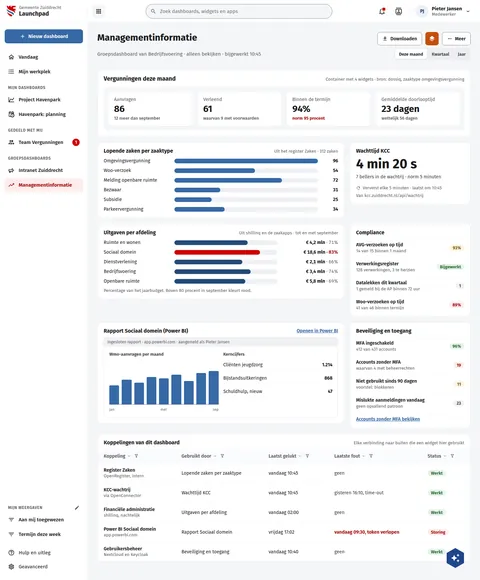
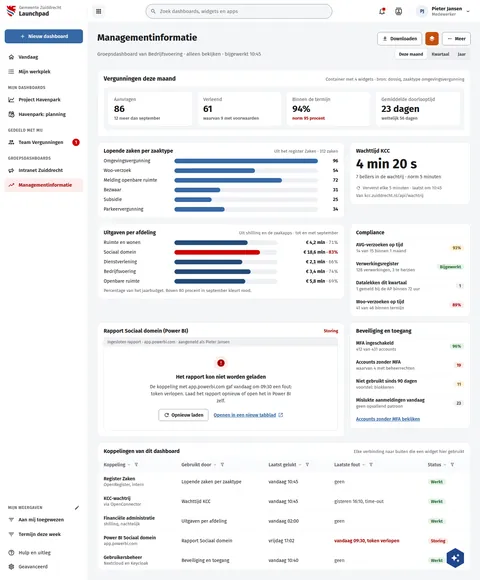
fix(screens): co-sign by signed link, real weekdays, and the Power BI card's failed state
MedeOndertekenen: the invitation mail carries a personal signed link and the
start page no longer asks for a typed code (decision 271, portaliq #1856).
FormulierNietBeschikbaar: 9 October 2026 is a Friday and 5 January 2027 a
Tuesday; the maintenance window writes its times with a colon.
LpManagement: the Power BI card drops its permanent "Openen in Power BI"
link and shows "Openen in een nieuw tabblad" only when the report fails to
load, which the connections table on the same board already says it does.

The three catalogues follow the boards; the dot-written times that #785
left behind in them now use a colon.

diff --git a/preview/screens/boards/LpManagement.html b/preview/screens/boards/LpManagement.html
@@ -300,21 +300,14 @@ a{color:var(--sc-primary, #3669a5)}a:hover{color:var(--sc-primary-deep, #234a78)
           </section>
 
           <section aria-labelledby="w-bi" style="grid-column: span 2; background: #ffffff; border: 1px solid var(--sc-work-line, #e4e6ea); border-radius: 12px; padding: 16px 18px 18px; display: flex; flex-direction: column; gap: 10px">
-            <div style="display: flex; align-items: center; justify-content: space-between; gap: 12px"><h2 id="w-bi" style="margin: 0; font-size: 16px; font-weight: 700">Rapport Sociaal domein (Power BI)</h2><a href="#" style="font-size: 14px; font-weight: 600">Openen in Power BI</a></div>
+            <div style="display: flex; align-items: center; justify-content: space-between; gap: 12px"><h2 id="w-bi" style="margin: 0; font-size: 16px; font-weight: 700">Rapport Sociaal domein (Power BI)</h2><span style="font-size: 13px; font-weight: 600; color: var(--sc-accent-deep, #a30000)">Storing</span></div>
             <div style="border: 1px solid var(--sc-work-line, #e4e6ea); border-radius: 8px; overflow: hidden">
               <div style="display: flex; align-items: center; gap: 8px; padding: 6px 10px; background: var(--sc-work-chip, #f0f1f3); font-size: 12px; color: var(--sc-work-muted, #5e6168)">Ingesloten rapport · app.powerbi.com · aangemeld als Pieter Jansen</div>
-              <div style="display: grid; grid-template-columns: 1fr 1fr; gap: 14px; padding: 16px; min-height: 180px">
-                <div style="display: flex; flex-direction: column; gap: 8px"><span style="font-size: 13px; font-weight: 600; color: var(--sc-work-text, #3d4047)">Wmo-aanvragen per maand</span>
-                  <div style="flex: 1; display: flex; align-items: flex-end; gap: 8px; height: 130px; border-bottom: 1px solid var(--sc-work-field, #828a95)">
-                    <span title="42 aanvragen" style="flex: 1; border-radius: 3px 3px 0 0; background: var(--sc-primary, #3669a5); height: 42%"></span><span title="55 aanvragen" style="flex: 1; border-radius: 3px 3px 0 0; background: var(--sc-primary, #3669a5); height: 55%"></span><span title="48 aanvragen" style="flex: 1; border-radius: 3px 3px 0 0; background: var(--sc-primary, #3669a5); height: 48%"></span><span title="61 aanvragen" style="flex: 1; border-radius: 3px 3px 0 0; background: var(--sc-primary, #3669a5); height: 61%"></span><span title="58 aanvragen" style="flex: 1; border-radius: 3px 3px 0 0; background: var(--sc-primary, #3669a5); height: 58%"></span><span title="66 aanvragen" style="flex: 1; border-radius: 3px 3px 0 0; background: var(--sc-primary, #3669a5); height: 66%"></span><span title="52 aanvragen" style="flex: 1; border-radius: 3px 3px 0 0; background: var(--sc-primary, #3669a5); height: 52%"></span><span title="70 aanvragen" style="flex: 1; border-radius: 3px 3px 0 0; background: var(--sc-primary, #3669a5); height: 70%"></span><span title="74 aanvragen" style="flex: 1; border-radius: 3px 3px 0 0; background: var(--sc-primary, #3669a5); height: 74%"></span>
-                  </div>
-                  <span style="display: flex; justify-content: space-between; font-size: 11px; color: var(--sc-work-muted, #5e6168)"><span>jan</span><span>mei</span><span>sep</span></span>
-                </div>
-                <div style="display: flex; flex-direction: column; gap: 10px"><span style="font-size: 13px; font-weight: 600; color: var(--sc-work-text, #3d4047)">Kerncijfers</span>
-                  <span style="display: flex; justify-content: space-between; font-size: 14px; padding: 6px 0; border-bottom: 1px solid var(--sc-work-soft, #eef0f3)"><span>Cliënten jeugdzorg</span><strong>1.214</strong></span>
-                  <span style="display: flex; justify-content: space-between; font-size: 14px; padding: 6px 0; border-bottom: 1px solid var(--sc-work-soft, #eef0f3)"><span>Bijstandsuitkeringen</span><strong>868</strong></span>
-                  <span style="display: flex; justify-content: space-between; font-size: 14px; padding: 6px 0; border-bottom: 1px solid var(--sc-work-soft, #eef0f3)"><span>Schuldhulp, nieuw</span><strong>47</strong></span>
-                </div>
+              <div role="status" style="display: flex; flex-direction: column; align-items: center; justify-content: center; gap: 10px; padding: 28px 16px; min-height: 180px; text-align: center">
+                <span style="width: 44px; height: 44px; border-radius: 22px; background: #fcedec; color: var(--sc-accent-deep, #a30000); display: flex; align-items: center; justify-content: center"><svg width="26" height="26" viewbox="0 0 24 24" fill="currentColor" aria-hidden="true" style="flex: none"><path d="M13,13H11V7H13M13,17H11V15H13M12,2A10,10 0 0,0 2,12A10,10 0 0,0 12,22A10,10 0 0,0 22,12A10,10 0 0,0 12,2Z"></path></svg></span>
+                <span style="font-size: 16px; font-weight: 700">Het rapport kon niet worden geladen</span>
+                <span style="font-size: 14px; color: var(--sc-work-text, #3d4047); max-width: 440px; line-height: 1.5">De koppeling met app.powerbi.com gaf vandaag om 09:30 een fout: token verlopen. Laad het rapport opnieuw of open het in Power BI zelf.</span>
+                <span style="display: flex; flex-wrap: wrap; justify-content: center; gap: 8px 16px; margin-top: 4px"><button type="button" style="display: inline-flex; align-items: center; gap: 6px; height: 36px; padding: 0 14px; border: 1px solid var(--sc-work-field, #828a95); border-radius: 6px; background: #ffffff; color: var(--sc-site-ink, #1a1a1a); font: 600 14px var(--sc-font, 'Fira Sans'), sans-serif"><svg width="18" height="18" viewbox="0 0 24 24" fill="currentColor" aria-hidden="true" style="flex: none"><path d="M17.65,6.35C16.2,4.9 14.21,4 12,4A8,8 0 0,0 4,12A8,8 0 0,0 12,20C15.73,20 18.84,17.45 19.73,14H17.65C16.83,16.33 14.61,18 12,18A6,6 0 0,1 6,12A6,6 0 0,1 12,6C13.66,6 15.14,6.69 16.22,7.78L13,11H20V4L17.65,6.35Z"></path></svg>Opnieuw laden</button><a href="#" target="_blank" rel="noopener" style="display: inline-flex; align-items: center; gap: 6px; font-size: 14px; font-weight: 600">Openen in een nieuw tabblad<svg width="16" height="16" viewbox="0 0 24 24" fill="currentColor" aria-hidden="true" style="flex: none"><path d="M14,3V5H17.59L7.76,14.83L9.17,16.24L19,6.41V10H21V3M19,19H5V5H12V3H5C3.89,3 3,3.9 3,5V19A2,2 0 0,0 5,21H19A2,2 0 0,0 21,19V12H19V19Z"></path></svg></a></span>
               </div>
             </div>
           </section>

diff --git a/screens-src/zuiddrecht/LpManagement.dc.html b/screens-src/zuiddrecht/LpManagement.dc.html
@@ -95,21 +95,14 @@ a{color:#3669a5}a:hover{color:#234a78}
           </section>
 
           <section aria-labelledby="w-bi" style="grid-column: span 2; background: #ffffff; border: 1px solid #e4e6ea; border-radius: 12px; padding: 16px 18px 18px; display: flex; flex-direction: column; gap: 10px">
-            <div style="display: flex; align-items: center; justify-content: space-between; gap: 12px"><h2 id="w-bi" style="margin: 0; font-size: 16px; font-weight: 700">Rapport Sociaal domein (Power BI)</h2><a href="#" style="font-size: 14px; font-weight: 600">Openen in Power BI</a></div>
+            <div style="display: flex; align-items: center; justify-content: space-between; gap: 12px"><h2 id="w-bi" style="margin: 0; font-size: 16px; font-weight: 700">Rapport Sociaal domein (Power BI)</h2><span style="font-size: 13px; font-weight: 600; color: #a30000">Storing</span></div>
             <div style="border: 1px solid #e4e6ea; border-radius: 8px; overflow: hidden">
               <div style="display: flex; align-items: center; gap: 8px; padding: 6px 10px; background: #f0f1f3; font-size: 12px; color: #5e6168">Ingesloten rapport · app.powerbi.com · aangemeld als Pieter Jansen</div>
-              <div style="display: grid; grid-template-columns: 1fr 1fr; gap: 14px; padding: 16px; min-height: 180px">
-                <div style="display: flex; flex-direction: column; gap: 8px"><span style="font-size: 13px; font-weight: 600; color: #3d4047">Wmo-aanvragen per maand</span>
-                  <div style="flex: 1; display: flex; align-items: flex-end; gap: 8px; height: 130px; border-bottom: 1px solid #828a95">
-                    <sc-for list="{{ cols }}" as="c" hint-placeholder-count="9"><span title="{{ c.t }}" style="{{ c.style }}"></span></sc-for>
-                  </div>
-                  <span style="display: flex; justify-content: space-between; font-size: 11px; color: #5e6168"><span>jan</span><span>mei</span><span>sep</span></span>
-                </div>
-                <div style="display: flex; flex-direction: column; gap: 10px"><span style="font-size: 13px; font-weight: 600; color: #3d4047">Kerncijfers</span>
-                  <span style="display: flex; justify-content: space-between; font-size: 14px; padding: 6px 0; border-bottom: 1px solid #eef0f3"><span>Cliënten jeugdzorg</span><strong>1.214</strong></span>
-                  <span style="display: flex; justify-content: space-between; font-size: 14px; padding: 6px 0; border-bottom: 1px solid #eef0f3"><span>Bijstandsuitkeringen</span><strong>868</strong></span>
-                  <span style="display: flex; justify-content: space-between; font-size: 14px; padding: 6px 0; border-bottom: 1px solid #eef0f3"><span>Schuldhulp, nieuw</span><strong>47</strong></span>
-                </div>
+              <div role="status" style="display: flex; flex-direction: column; align-items: center; justify-content: center; gap: 10px; padding: 28px 16px; min-height: 180px; text-align: center">
+                <span style="width: 44px; height: 44px; border-radius: 22px; background: #fcedec; color: #a30000; display: flex; align-items: center; justify-content: center"><svg width="26" height="26" viewBox="0 0 24 24" fill="currentColor" aria-hidden="true" style="flex: none"><path d="M13,13H11V7H13M13,17H11V15H13M12,2A10,10 0 0,0 2,12A10,10 0 0,0 12,22A10,10 0 0,0 22,12A10,10 0 0,0 12,2Z"></path></svg></span>
+                <span style="font-size: 16px; font-weight: 700">Het rapport kon niet worden geladen</span>
+                <span style="font-size: 14px; color: #3d4047; max-width: 440px; line-height: 1.5">De koppeling met app.powerbi.com gaf vandaag om 09:30 een fout: token verlopen. Laad het rapport opnieuw of open het in Power BI zelf.</span>
+                <span style="display: flex; flex-wrap: wrap; justify-content: center; gap: 8px 16px; margin-top: 4px"><button type="button" style="display: inline-flex; align-items: center; gap: 6px; height: 36px; padding: 0 14px; border: 1px solid #828a95; border-radius: 6px; background: #ffffff; color: #1a1a1a; font: 600 14px 'Fira Sans', sans-serif"><svg width="18" height="18" viewBox="0 0 24 24" fill="currentColor" aria-hidden="true" style="flex: none"><path d="M17.65,6.35C16.2,4.9 14.21,4 12,4A8,8 0 0,0 4,12A8,8 0 0,0 12,20C15.73,20 18.84,17.45 19.73,14H17.65C16.83,16.33 14.61,18 12,18A6,6 0 0,1 6,12A6,6 0 0,1 12,6C13.66,6 15.14,6.69 16.22,7.78L13,11H20V4L17.65,6.35Z"></path></svg>Opnieuw laden</button><a href="#" target="_blank" rel="noopener" style="display: inline-flex; align-items: center; gap: 6px; font-size: 14px; font-weight: 600">Openen in een nieuw tabblad<svg width="16" height="16" viewBox="0 0 24 24" fill="currentColor" aria-hidden="true" style="flex: none"><path d="M14,3V5H17.59L7.76,14.83L9.17,16.24L19,6.41V10H21V3M19,19H5V5H12V3H5C3.89,3 3,3.9 3,5V19A2,2 0 0,0 5,21H19A2,2 0 0,0 21,19V12H19V19Z"></path></svg></a></span>
               </div>
             </div>
           </section>

diff --git a/preview/screens/boards/FormulierNietBeschikbaar.html b/preview/screens/boards/FormulierNietBeschikbaar.html
@@ -97,7 +97,7 @@ footer a{color:#ffffff}footer a:hover{color:#dfe8f3}
         <span style="flex: none; width: 48px; height: 48px; border-radius: 24px; background: #fff4de; color: #7a4f00; display: flex; align-items: center; justify-content: center"><svg width="28" height="28" viewbox="0 0 24 24" fill="currentColor" aria-hidden="true" style="flex: none"><path d="M22.61,19L13.53,9.91C14.46,7.57 14,4.81 12.09,2.91C9.79,0.61 6.21,0.4 3.66,2.26L7.5,6.11L6.08,7.5L2.25,3.69C0.39,6.23 0.6,9.82 2.9,12.11C4.76,13.97 7.47,14.46 9.79,13.59L18.9,22.7C19.29,23.09 19.92,23.09 20.31,22.7L22.61,20.4C23,20 23,19.39 22.61,19M19.61,20.59L10.15,11.13C9.54,11.58 8.86,11.85 8.15,11.95C6.79,12.15 5.36,11.74 4.32,10.7C3.37,9.76 2.93,8.5 3,7.26L6.09,10.35L10.33,6.11L7.24,3C8.5,2.95 9.73,3.39 10.68,4.33C11.76,5.41 12.17,6.9 11.92,8.29C11.8,9 11.5,9.66 11.04,10.25L20.5,19.7L19.61,20.59Z"></path></svg></span>
         <div style="display: flex; flex-direction: column; gap: 8px">
           <h2 id="s1" style="margin: 0; font-size: 32px; font-weight: 700; line-height: 1.2">Dit formulier is even niet beschikbaar</h2>
-          <p style="margin: 0; font-size: 19px; line-height: 1.5; color: var(--sc-site-muted, #4a4a4a)">Wij werken aan het formulier Woo-verzoek indienen. Dat doen wij op donderdag 9 oktober 2026 van 18:00 tot 22:00 uur.</p>
+          <p style="margin: 0; font-size: 19px; line-height: 1.5; color: var(--sc-site-muted, #4a4a4a)">Wij werken aan het formulier Woo-verzoek indienen. Dat doen wij op vrijdag 9 oktober 2026 van 18:00 tot 22:00 uur.</p>
         </div>
       </div>
       <div style="display: flex; gap: 12px; padding: 16px 20px; border-radius: 4px; background: var(--sc-site-ground, #f4f6f9); border: 1px solid var(--sc-site-border, #d3d8df); align-items: flex-start"><svg width="22" height="22" viewbox="0 0 24 24" fill="#4a4a4a" aria-hidden="true" style="flex: none; margin-top: 1px;fill:var(--sc-site-muted, #4a4a4a)"><path d="M11,9H13V7H11M12,20C7.59,20 4,16.41 4,12C4,7.59 7.59,4 12,4C16.41,4 20,7.59 20,12C20,16.41 16.41,20 12,20M12,2A10,10 0 0,0 2,12A10,10 0 0,0 12,22A10,10 0 0,0 22,12A10,10 0 0,0 12,2M11,17H13V11H11V17Z"></path></svg><div style="font-size: 17px; line-height: 1.5; display: flex; flex-direction: column; gap: 4px"><span>Was u al bezig? Uw opgeslagen antwoorden blijven bewaard. Na 22:00 uur gaat u verder waar u was.</span></div></div>
@@ -120,7 +120,7 @@ footer a{color:#ffffff}footer a:hover{color:#dfe8f3}
         <span style="flex: none; width: 48px; height: 48px; border-radius: 24px; background: var(--sc-primary-light, #eaf0f7); color: var(--sc-primary-deep, #234a78); display: flex; align-items: center; justify-content: center"><svg width="28" height="28" viewbox="0 0 24 24" fill="currentColor" aria-hidden="true" style="flex: none"><path d="M15,13H16.5V15.82L18.94,17.23L18.19,18.53L15,16.69V13M19,8H5V19H9.67C9.24,18.09 9,17.07 9,16A7,7 0 0,1 16,9C17.07,9 18.09,9.24 19,9.67V8M5,21C3.89,21 3,20.1 3,19V5C3,3.89 3.89,3 5,3H6V1H8V3H16V1H18V3H19A2,2 0 0,1 21,5V11.1C22.24,12.36 23,14.09 23,16A7,7 0 0,1 16,23C14.09,23 12.36,22.24 11.1,21H5M16,11.15A4.85,4.85 0 0,0 11.15,16C11.15,18.68 13.32,20.85 16,20.85A4.85,4.85 0 0,0 20.85,16C20.85,13.32 18.68,11.15 16,11.15Z"></path></svg></span>
         <div style="display: flex; flex-direction: column; gap: 8px">
           <h2 id="s3" style="margin: 0; font-size: 32px; font-weight: 700; line-height: 1.2">Er kunnen nu geen aanvragen meer bij</h2>
-          <p style="margin: 0; font-size: 19px; line-height: 1.5; color: var(--sc-site-muted, #4a4a4a)">Voor de subsidie geveltuinen 2026 zijn alle 150 plekken vergeven. Vanaf maandag 5 januari 2027 kunt u weer een aanvraag doen.</p>
+          <p style="margin: 0; font-size: 19px; line-height: 1.5; color: var(--sc-site-muted, #4a4a4a)">Voor de subsidie geveltuinen 2026 zijn alle 150 plekken vergeven. Vanaf dinsdag 5 januari 2027 kunt u weer een aanvraag doen.</p>
         </div>
       </div>
       <div style="display: flex; gap: 12px; padding: 16px 20px; border-radius: 4px; background: var(--sc-site-ground, #f4f6f9); border: 1px solid var(--sc-site-border, #d3d8df); align-items: flex-start"><svg width="22" height="22" viewbox="0 0 24 24" fill="#4a4a4a" aria-hidden="true" style="flex: none; margin-top: 1px;fill:var(--sc-site-muted, #4a4a4a)"><path d="M11,9H13V7H11M12,20C7.59,20 4,16.41 4,12C4,7.59 7.59,4 12,4C16.41,4 20,7.59 20,12C20,16.41 16.41,20 12,20M12,2A10,10 0 0,0 2,12A10,10 0 0,0 12,22A10,10 0 0,0 22,12A10,10 0 0,0 12,2M11,17H13V11H11V17Z"></path></svg><div style="font-size: 17px; line-height: 1.5; display: flex; flex-direction: column; gap: 4px"><span>Dit kan alleen bij formulieren met een vast aantal plekken, zoals een subsidie of een aanmelding. Een Woo-verzoek kunt u altijd indienen.</span></div></div>

diff --git a/screens-src/zuiddrecht/FormulierNietBeschikbaar.dc.html b/screens-src/zuiddrecht/FormulierNietBeschikbaar.dc.html
@@ -27,7 +27,7 @@ a{color:#3669a5}a:hover{color:#234a78}
         <span style="flex: none; width: 48px; height: 48px; border-radius: 24px; background: #fff4de; color: #7a4f00; display: flex; align-items: center; justify-content: center"><svg width="28" height="28" viewBox="0 0 24 24" fill="currentColor" aria-hidden="true" style="flex: none"><path d="M22.61,19L13.53,9.91C14.46,7.57 14,4.81 12.09,2.91C9.79,0.61 6.21,0.4 3.66,2.26L7.5,6.11L6.08,7.5L2.25,3.69C0.39,6.23 0.6,9.82 2.9,12.11C4.76,13.97 7.47,14.46 9.79,13.59L18.9,22.7C19.29,23.09 19.92,23.09 20.31,22.7L22.61,20.4C23,20 23,19.39 22.61,19M19.61,20.59L10.15,11.13C9.54,11.58 8.86,11.85 8.15,11.95C6.79,12.15 5.36,11.74 4.32,10.7C3.37,9.76 2.93,8.5 3,7.26L6.09,10.35L10.33,6.11L7.24,3C8.5,2.95 9.73,3.39 10.68,4.33C11.76,5.41 12.17,6.9 11.92,8.29C11.8,9 11.5,9.66 11.04,10.25L20.5,19.7L19.61,20.59Z"></path></svg></span>
         <div style="display: flex; flex-direction: column; gap: 8px">
           <h2 id="s1" style="margin: 0; font-size: 32px; font-weight: 700; line-height: 1.2">Dit formulier is even niet beschikbaar</h2>
-          <p style="margin: 0; font-size: 19px; line-height: 1.5; color: #4a4a4a">Wij werken aan het formulier Woo-verzoek indienen. Dat doen wij op donderdag 9 oktober 2026 van 18:00 tot 22:00 uur.</p>
+          <p style="margin: 0; font-size: 19px; line-height: 1.5; color: #4a4a4a">Wij werken aan het formulier Woo-verzoek indienen. Dat doen wij op vrijdag 9 oktober 2026 van 18:00 tot 22:00 uur.</p>
         </div>
       </div>
       <div style="display: flex; gap: 12px; padding: 16px 20px; border-radius: 4px; background: #f4f6f9; border: 1px solid #d3d8df; align-items: flex-start"><svg width="22" height="22" viewBox="0 0 24 24" fill="#4a4a4a" aria-hidden="true" style="flex: none; margin-top: 1px"><path d="M11,9H13V7H11M12,20C7.59,20 4,16.41 4,12C4,7.59 7.59,4 12,4C16.41,4 20,7.59 20,12C20,16.41 16.41,20 12,20M12,2A10,10 0 0,0 2,12A10,10 0 0,0 12,22A10,10 0 0,0 22,12A10,10 0 0,0 12,2M11,17H13V11H11V17Z"></path></svg><div style="font-size: 17px; line-height: 1.5; display: flex; flex-direction: column; gap: 4px"><span>Was u al bezig? Uw opgeslagen antwoorden blijven bewaard. Na 22:00 uur gaat u verder waar u was.</span></div></div>
@@ -50,7 +50,7 @@ a{color:#3669a5}a:hover{color:#234a78}
         <span style="flex: none; width: 48px; height: 48px; border-radius: 24px; background: #eaf0f7; color: #234a78; display: flex; align-items: center; justify-content: center"><svg width="28" height="28" viewBox="0 0 24 24" fill="currentColor" aria-hidden="true" style="flex: none"><path d="M15,13H16.5V15.82L18.94,17.23L18.19,18.53L15,16.69V13M19,8H5V19H9.67C9.24,18.09 9,17.07 9,16A7,7 0 0,1 16,9C17.07,9 18.09,9.24 19,9.67V8M5,21C3.89,21 3,20.1 3,19V5C3,3.89 3.89,3 5,3H6V1H8V3H16V1H18V3H19A2,2 0 0,1 21,5V11.1C22.24,12.36 23,14.09 23,16A7,7 0 0,1 16,23C14.09,23 12.36,22.24 11.1,21H5M16,11.15A4.85,4.85 0 0,0 11.15,16C11.15,18.68 13.32,20.85 16,20.85A4.85,4.85 0 0,0 20.85,16C20.85,13.32 18.68,11.15 16,11.15Z"></path></svg></span>
         <div style="display: flex; flex-direction: column; gap: 8px">
           <h2 id="s3" style="margin: 0; font-size: 32px; font-weight: 700; line-height: 1.2">Er kunnen nu geen aanvragen meer bij</h2>
-          <p style="margin: 0; font-size: 19px; line-height: 1.5; color: #4a4a4a">Voor de subsidie geveltuinen 2026 zijn alle 150 plekken vergeven. Vanaf maandag 5 januari 2027 kunt u weer een aanvraag doen.</p>
+          <p style="margin: 0; font-size: 19px; line-height: 1.5; color: #4a4a4a">Voor de subsidie geveltuinen 2026 zijn alle 150 plekken vergeven. Vanaf dinsdag 5 januari 2027 kunt u weer een aanvraag doen.</p>
         </div>
       </div>
       <div style="display: flex; gap: 12px; padding: 16px 20px; border-radius: 4px; background: #f4f6f9; border: 1px solid #d3d8df; align-items: flex-start"><svg width="22" height="22" viewBox="0 0 24 24" fill="#4a4a4a" aria-hidden="true" style="flex: none; margin-top: 1px"><path d="M11,9H13V7H11M12,20C7.59,20 4,16.41 4,12C4,7.59 7.59,4 12,4C16.41,4 20,7.59 20,12C20,16.41 16.41,20 12,20M12,2A10,10 0 0,0 2,12A10,10 0 0,0 12,22A10,10 0 0,0 22,12A10,10 0 0,0 12,2M11,17H13V11H11V17Z"></path></svg><div style="font-size: 17px; line-height: 1.5; display: flex; flex-direction: column; gap: 4px"><span>Dit kan alleen bij formulieren met een vast aantal plekken, zoals een subsidie of een aanmelding. Een Woo-verzoek kunt u altijd indienen.</span></div></div>

diff --git a/preview/screens/boards/MedeOndertekenen.html b/preview/screens/boards/MedeOndertekenen.html
@@ -93,18 +93,15 @@ footer a{color:#ffffff}footer a:hover{color:#dfe8f3}
           <div style="display: flex; flex-direction: column; gap: 2px; padding-bottom: 10px; border-bottom: 1px solid var(--sc-site-border, #d3d8df); color: var(--sc-site-muted, #4a4a4a)"><span><strong style="color: var(--sc-site-ink, #1a1a1a)">Van:</strong> Gemeente Zuiddrecht</span><span><strong style="color: var(--sc-site-ink, #1a1a1a)">Onderwerp:</strong> Wilt u een aanvraag mede-ondertekenen?</span></div>
           <p style="margin: 0">Beste Sanne de Vries,</p>
           <p style="margin: 0">Henk de Vries heeft een Woo-verzoek ingediend en vraagt u dit mede te ondertekenen. Pas daarna nemen wij het verzoek in behandeling.</p>
-          <p style="margin: 0">Ga naar <a href="#start">zuiddrecht.example/mede-ondertekenen</a> en voer deze code in: <strong style="letter-spacing: 0.06em">7RQ-K2M</strong>. Doe dit voor 22 oktober 2026.</p>
+          <p style="margin: 0">Open de link hieronder en log in met uw DigiD. De link is persoonlijk en werkt tot 22 oktober 2026.</p>
+          <p style="margin: 0"><a href="#start" style="font-weight: 600">Aanvraag bekijken en mede-ondertekenen</a></p>
         </div>
       </figure>
       <div style="display: flex; flex-direction: column; gap: 10px">
         <h1 id="h1" style="margin: 0; font-size: 44px; font-weight: 700; line-height: 1.15">Aanvraag mede-ondertekenen</h1>
         <p style="margin: 0; font-size: 19px; line-height: 1.5; color: var(--sc-site-muted, #4a4a4a)">Henk de Vries vraagt u een aanvraag mede te ondertekenen. U logt in met uw eigen DigiD. Daarna ziet u de aanvraag en beslist u.</p>
       </div>
-      <div style="display: flex; flex-direction: column; gap: 8px">
-        <label for="code" style="font-size: 19px; font-weight: 600">Uw code</label>
-        <span id="code-h" style="font-size: 16px; color: var(--sc-site-muted, #4a4a4a); line-height: 1.5">De code staat in de e-mail die u van ons kreeg.</span>
-        <input id="code" type="text" aria-describedby="code-h" value="7RQ-K2M" style="box-sizing: border-box; height: 48px; padding: 0 14px; border: 2px solid #5c6470; border-radius: 4px; font: 400 17px var(--sc-font, 'Fira Sans'), sans-serif; color: var(--sc-site-ink, #1a1a1a); width: 100%; max-width: 480px; max-width: 280px; letter-spacing: 0.08em">
-      </div>
+      <p style="margin: 0; font-size: 17px; line-height: 1.5; color: var(--sc-site-muted, #4a4a4a)">U komt hier via de link in de e-mail die u van ons kreeg. U hoeft geen code in te voeren.</p>
       <div style="display: flex; flex-wrap: wrap; gap: 12px"><button type="button" style="display: inline-flex; align-items: center; justify-content: center; gap: 8px; height: 48px; padding: 0 22px; border: 0; border-radius: 4px; background: var(--sc-primary, #3669a5); color: #ffffff; font: 600 17px var(--sc-font, 'Fira Sans'), sans-serif; text-decoration: none; box-sizing: border-box"><span aria-hidden="true" style="padding: 2px 6px; border-radius: 3px; background: var(--sc-site-ink, #1a1a1a); font-size: 13px; font-weight: 700">DigiD</span>Inloggen met DigiD en controleren</button></div>
     </section>
     <section aria-labelledby="h1b" style="display: flex; flex-direction: column; gap: 24px; padding: 28px; border: 2px dashed #b9cbe2; border-radius: 8px">

diff --git a/screens-src/zuiddrecht/MedeOndertekenen.dc.html b/screens-src/zuiddrecht/MedeOndertekenen.dc.html
@@ -25,18 +25,15 @@ a{color:#3669a5}a:hover{color:#234a78}
           <div style="display: flex; flex-direction: column; gap: 2px; padding-bottom: 10px; border-bottom: 1px solid #d3d8df; color: #4a4a4a"><span><strong style="color: #1a1a1a">Van:</strong> Gemeente Zuiddrecht</span><span><strong style="color: #1a1a1a">Onderwerp:</strong> Wilt u een aanvraag mede-ondertekenen?</span></div>
           <p style="margin: 0">Beste Sanne de Vries,</p>
           <p style="margin: 0">Henk de Vries heeft een Woo-verzoek ingediend en vraagt u dit mede te ondertekenen. Pas daarna nemen wij het verzoek in behandeling.</p>
-          <p style="margin: 0">Ga naar <a href="#start">zuiddrecht.example/mede-ondertekenen</a> en voer deze code in: <strong style="letter-spacing: 0.06em">7RQ-K2M</strong>. Doe dit voor 22 oktober 2026.</p>
+          <p style="margin: 0">Open de link hieronder en log in met uw DigiD. De link is persoonlijk en werkt tot 22 oktober 2026.</p>
+          <p style="margin: 0"><a href="#start" style="font-weight: 600">Aanvraag bekijken en mede-ondertekenen</a></p>
         </div>
       </figure>
       <div style="display: flex; flex-direction: column; gap: 10px">
         <h1 id="h1" style="margin: 0; font-size: 44px; font-weight: 700; line-height: 1.15">Aanvraag mede-ondertekenen</h1>
         <p style="margin: 0; font-size: 19px; line-height: 1.5; color: #4a4a4a">Henk de Vries vraagt u een aanvraag mede te ondertekenen. U logt in met uw eigen DigiD. Daarna ziet u de aanvraag en beslist u.</p>
       </div>
-      <div style="display: flex; flex-direction: column; gap: 8px">
-        <label for="code" style="font-size: 19px; font-weight: 600">Uw code</label>
-        <span id="code-h" style="font-size: 16px; color: #4a4a4a; line-height: 1.5">De code staat in de e-mail die u van ons kreeg.</span>
-        <input id="code" type="text" aria-describedby="code-h" value="7RQ-K2M" style="box-sizing: border-box; height: 48px; padding: 0 14px; border: 2px solid #5c6470; border-radius: 4px; font: 400 17px 'Fira Sans', sans-serif; color: #1a1a1a; width: 100%; max-width: 480px; max-width: 280px; letter-spacing: 0.08em">
-      </div>
+      <p style="margin: 0; font-size: 17px; line-height: 1.5; color: #4a4a4a">U komt hier via de link in de e-mail die u van ons kreeg. U hoeft geen code in te voeren.</p>
       <div style="display: flex; flex-wrap: wrap; gap: 12px"><button type="button" style="display: inline-flex; align-items: center; justify-content: center; gap: 8px; height: 48px; padding: 0 22px; border: 0; border-radius: 4px; background: #3669a5; color: #ffffff; font: 600 17px 'Fira Sans', sans-serif; text-decoration: none; box-sizing: border-box"><span aria-hidden="true" style="padding: 2px 6px; border-radius: 3px; background: #1a1a1a; font-size: 13px; font-weight: 700">DigiD</span>Inloggen met DigiD en controleren</button></div>
     </section>
     <section aria-labelledby="h1b" style="display: flex; flex-direction: column; gap: 24px; padding: 28px; border: 2px dashed #b9cbe2; border-radius: 8px">
